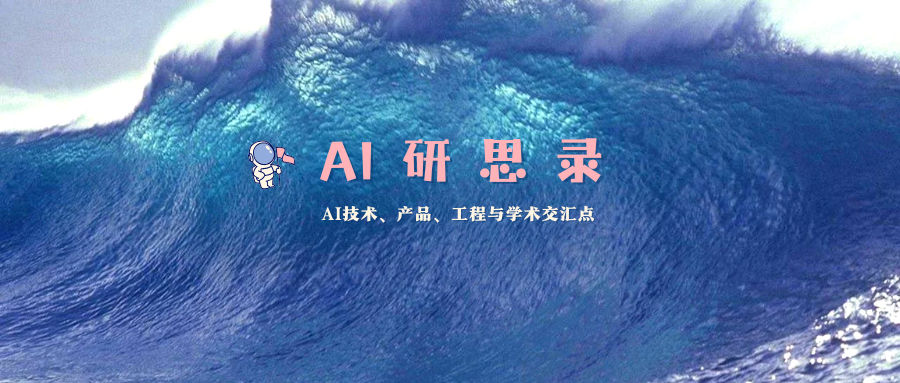
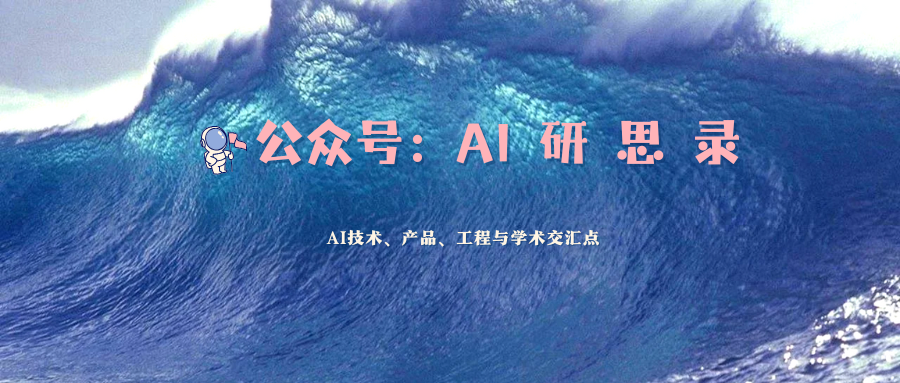
修改配置

diff --git a/index.html b/index.html
@@ -1,8 +1,6 @@
 ---
 layout: page
-description: >
-  追风赶月莫停留，平芜尽处是春山.
-  公众号: AI研思录
+
 ---
 
 {% for post in paginator.posts %}
